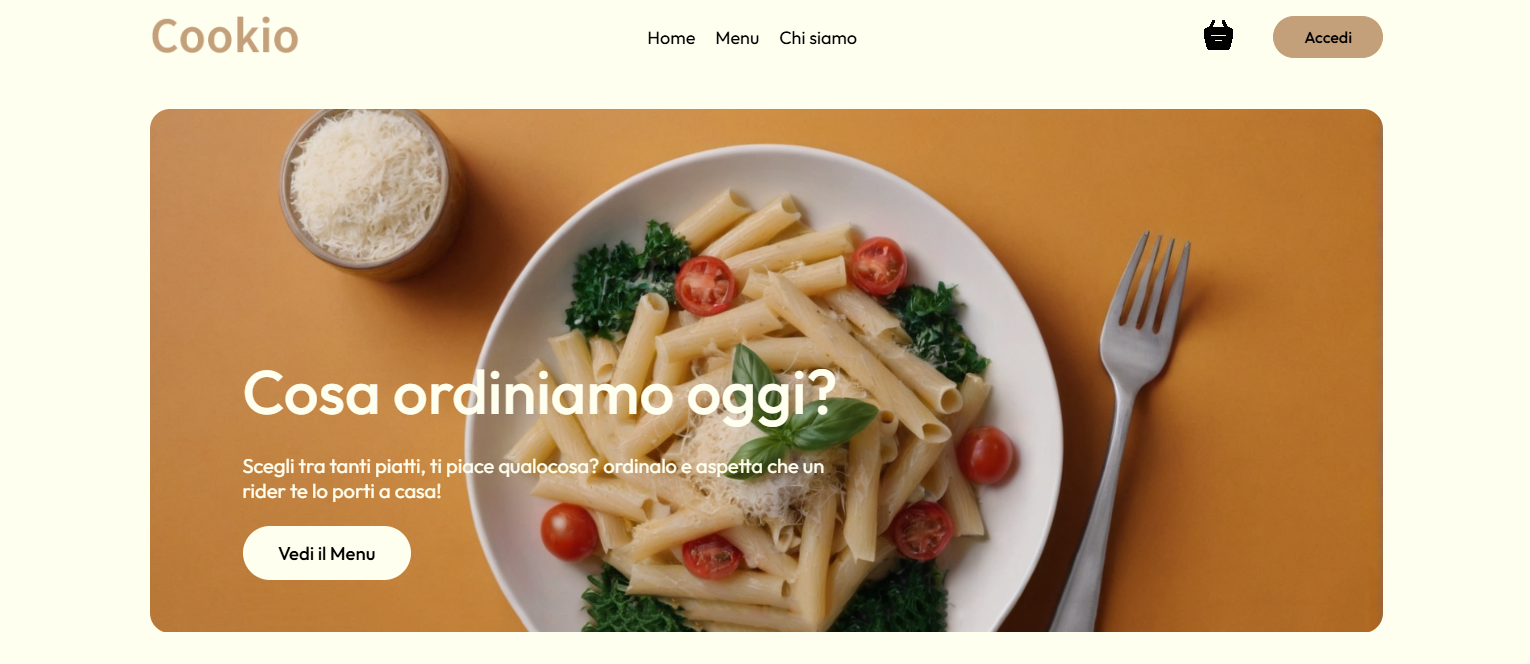
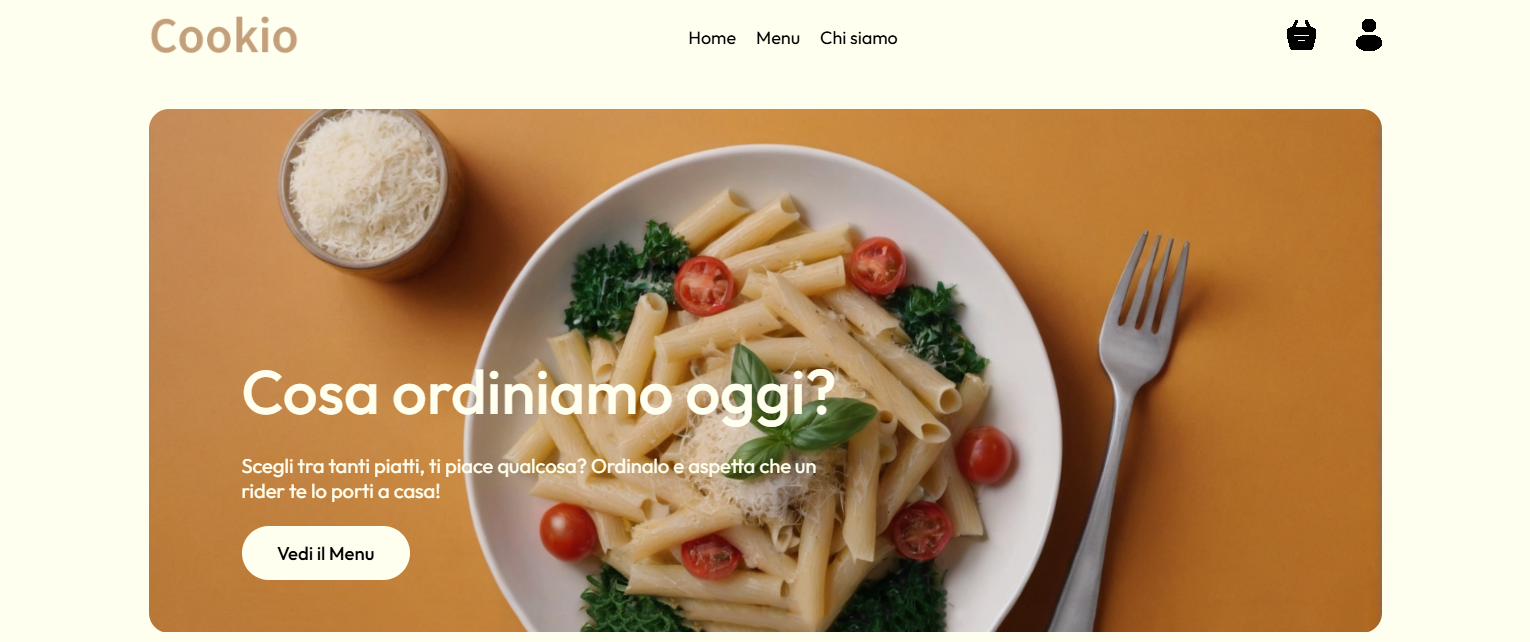
Fixed small spelling mistakes

diff --git a/frontend/src/components/Header/Header.jsx b/frontend/src/components/Header/Header.jsx
@@ -10,7 +10,7 @@ const Header = () => {
       <div className="header-contents">
         <h2>Cosa ordiniamo oggi?</h2>
         <p>
-          Scegli tra tanti piatti, ti piace qualocosa? ordinalo e aspetta che un
+          Scegli tra tanti piatti, ti piace qualcosa? Ordinalo e aspetta che un
           rider te lo porti a casa!
         </p>
         <Link to="/menu">
